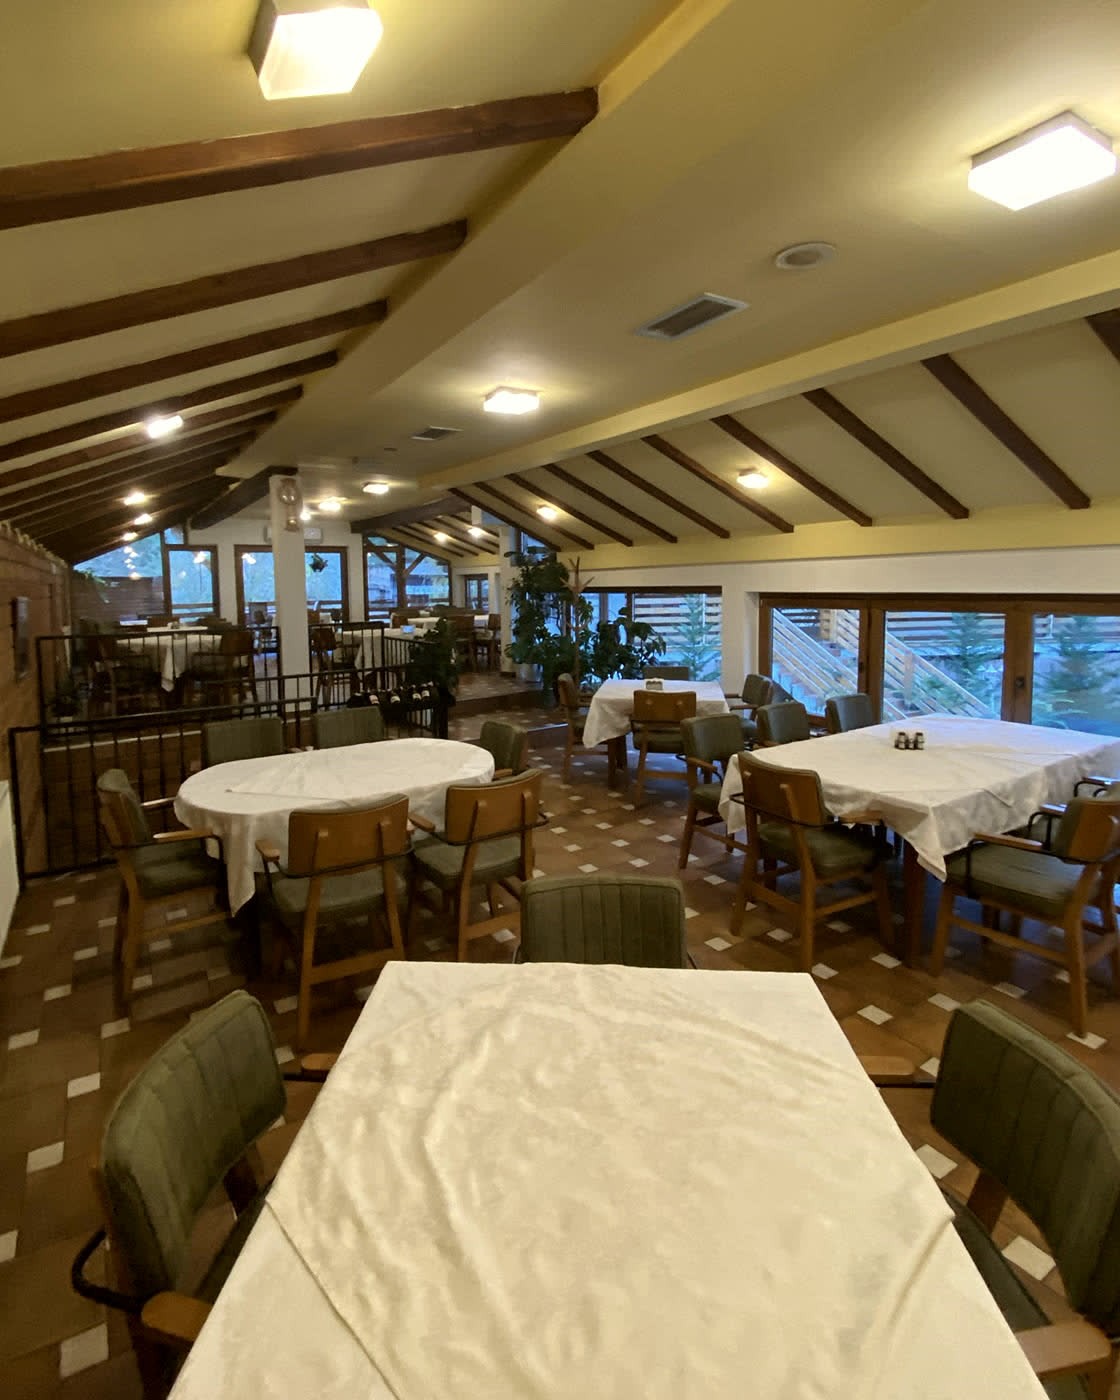
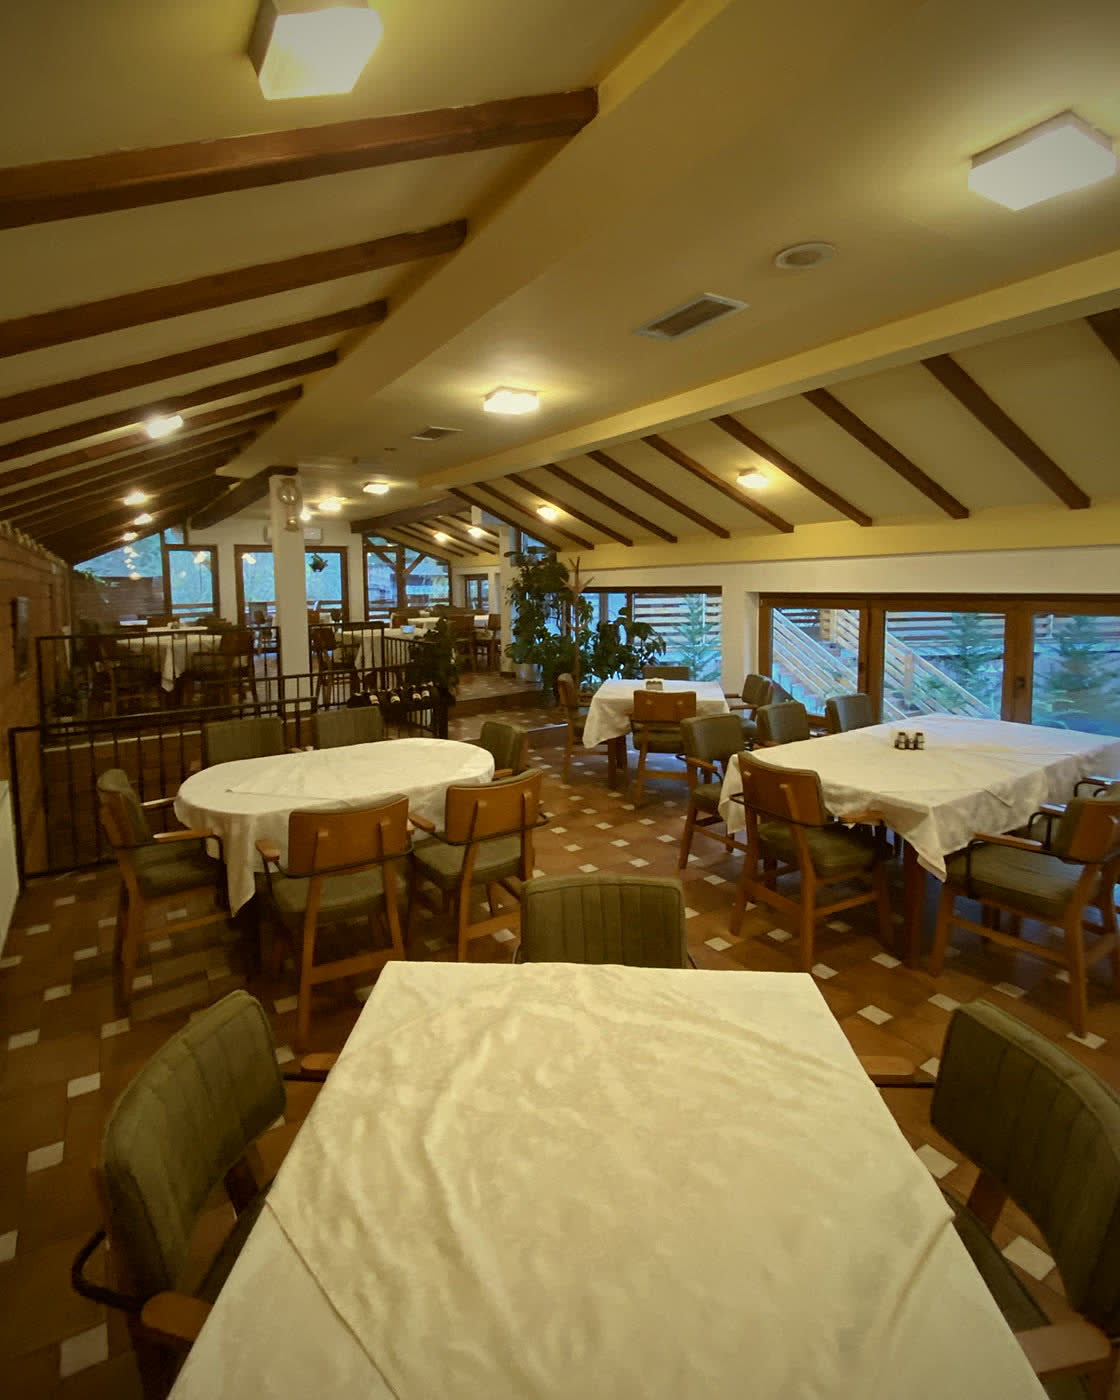
Warmer grade for the dining hall photos
Claude-Session: https://claude.ai/code/session_01UFFdMsRBar4y4gzdBAGbbU

diff --git a/index.html b/index.html
@@ -91,7 +91,7 @@
     <div class="container"><div class="rule" aria-hidden="true"><i></i><i></i></div></div>
     <section class="g-block">
       <div class="container g-grid">
-        <div class="g-media"><div class="media tone-4"><img src="images/interior.jpg?v=3" alt="" loading="lazy" onerror="this.remove()"></div></div>
+        <div class="g-media"><div class="media tone-4"><img src="images/interior.jpg?v=4" alt="" loading="lazy" onerror="this.remove()"></div></div>
         <div class="prose g-text">
           <p class="eyebrow reveal">Restaurant Santos · Reçan</p>
           <h2 class="split" data-i18n="nav.about">Rreth nesh</h2>
@@ -115,7 +115,7 @@
     <div class="container"><div class="rule" aria-hidden="true"><i></i><i></i></div></div>
     <section class="g-block">
       <div class="container g-grid">
-        <div class="g-media"><div class="media tone-2"><img src="images/about.jpg?v=3" alt="" loading="lazy" onerror="this.remove()"></div></div>
+        <div class="g-media"><div class="media tone-2"><img src="images/about.jpg?v=4" alt="" loading="lazy" onerror="this.remove()"></div></div>
         <div class="prose g-text">
           <p class="eyebrow reveal">Restaurant Santos · Reçan</p>
           <h2 class="split" data-i18n="nav.reviews">Vlerësimet</h2>

diff --git a/rreth-nesh.html b/rreth-nesh.html
@@ -46,7 +46,7 @@
 
   <main>
     <section class="hero page-hero">
-      <div class="media tone-1 hero-media"><img src="images/about.jpg?v=3" alt="" loading="lazy" onerror="this.remove()"></div>
+      <div class="media tone-1 hero-media"><img src="images/about.jpg?v=4" alt="" loading="lazy" onerror="this.remove()"></div>
       <div class="hero-shade" aria-hidden="true"></div>
       <div class="container hero-content">
         <p class="eyebrow reveal" data-i18n="aboutHero.eyebrow">Rreth nesh</p>
@@ -70,7 +70,7 @@
     <section class="section ab-photo">
       <div class="container">
         <figure class="ab-fig">
-          <div class="media tone-4 ab-frame"><img src="images/interior.jpg?v=3" alt="" loading="lazy" onerror="this.remove()"></div>
+          <div class="media tone-4 ab-frame"><img src="images/interior.jpg?v=4" alt="" loading="lazy" onerror="this.remove()"></div>
           <figcaption data-i18n="about.caption">Salla kryesore</figcaption>
         </figure>
       </div>
